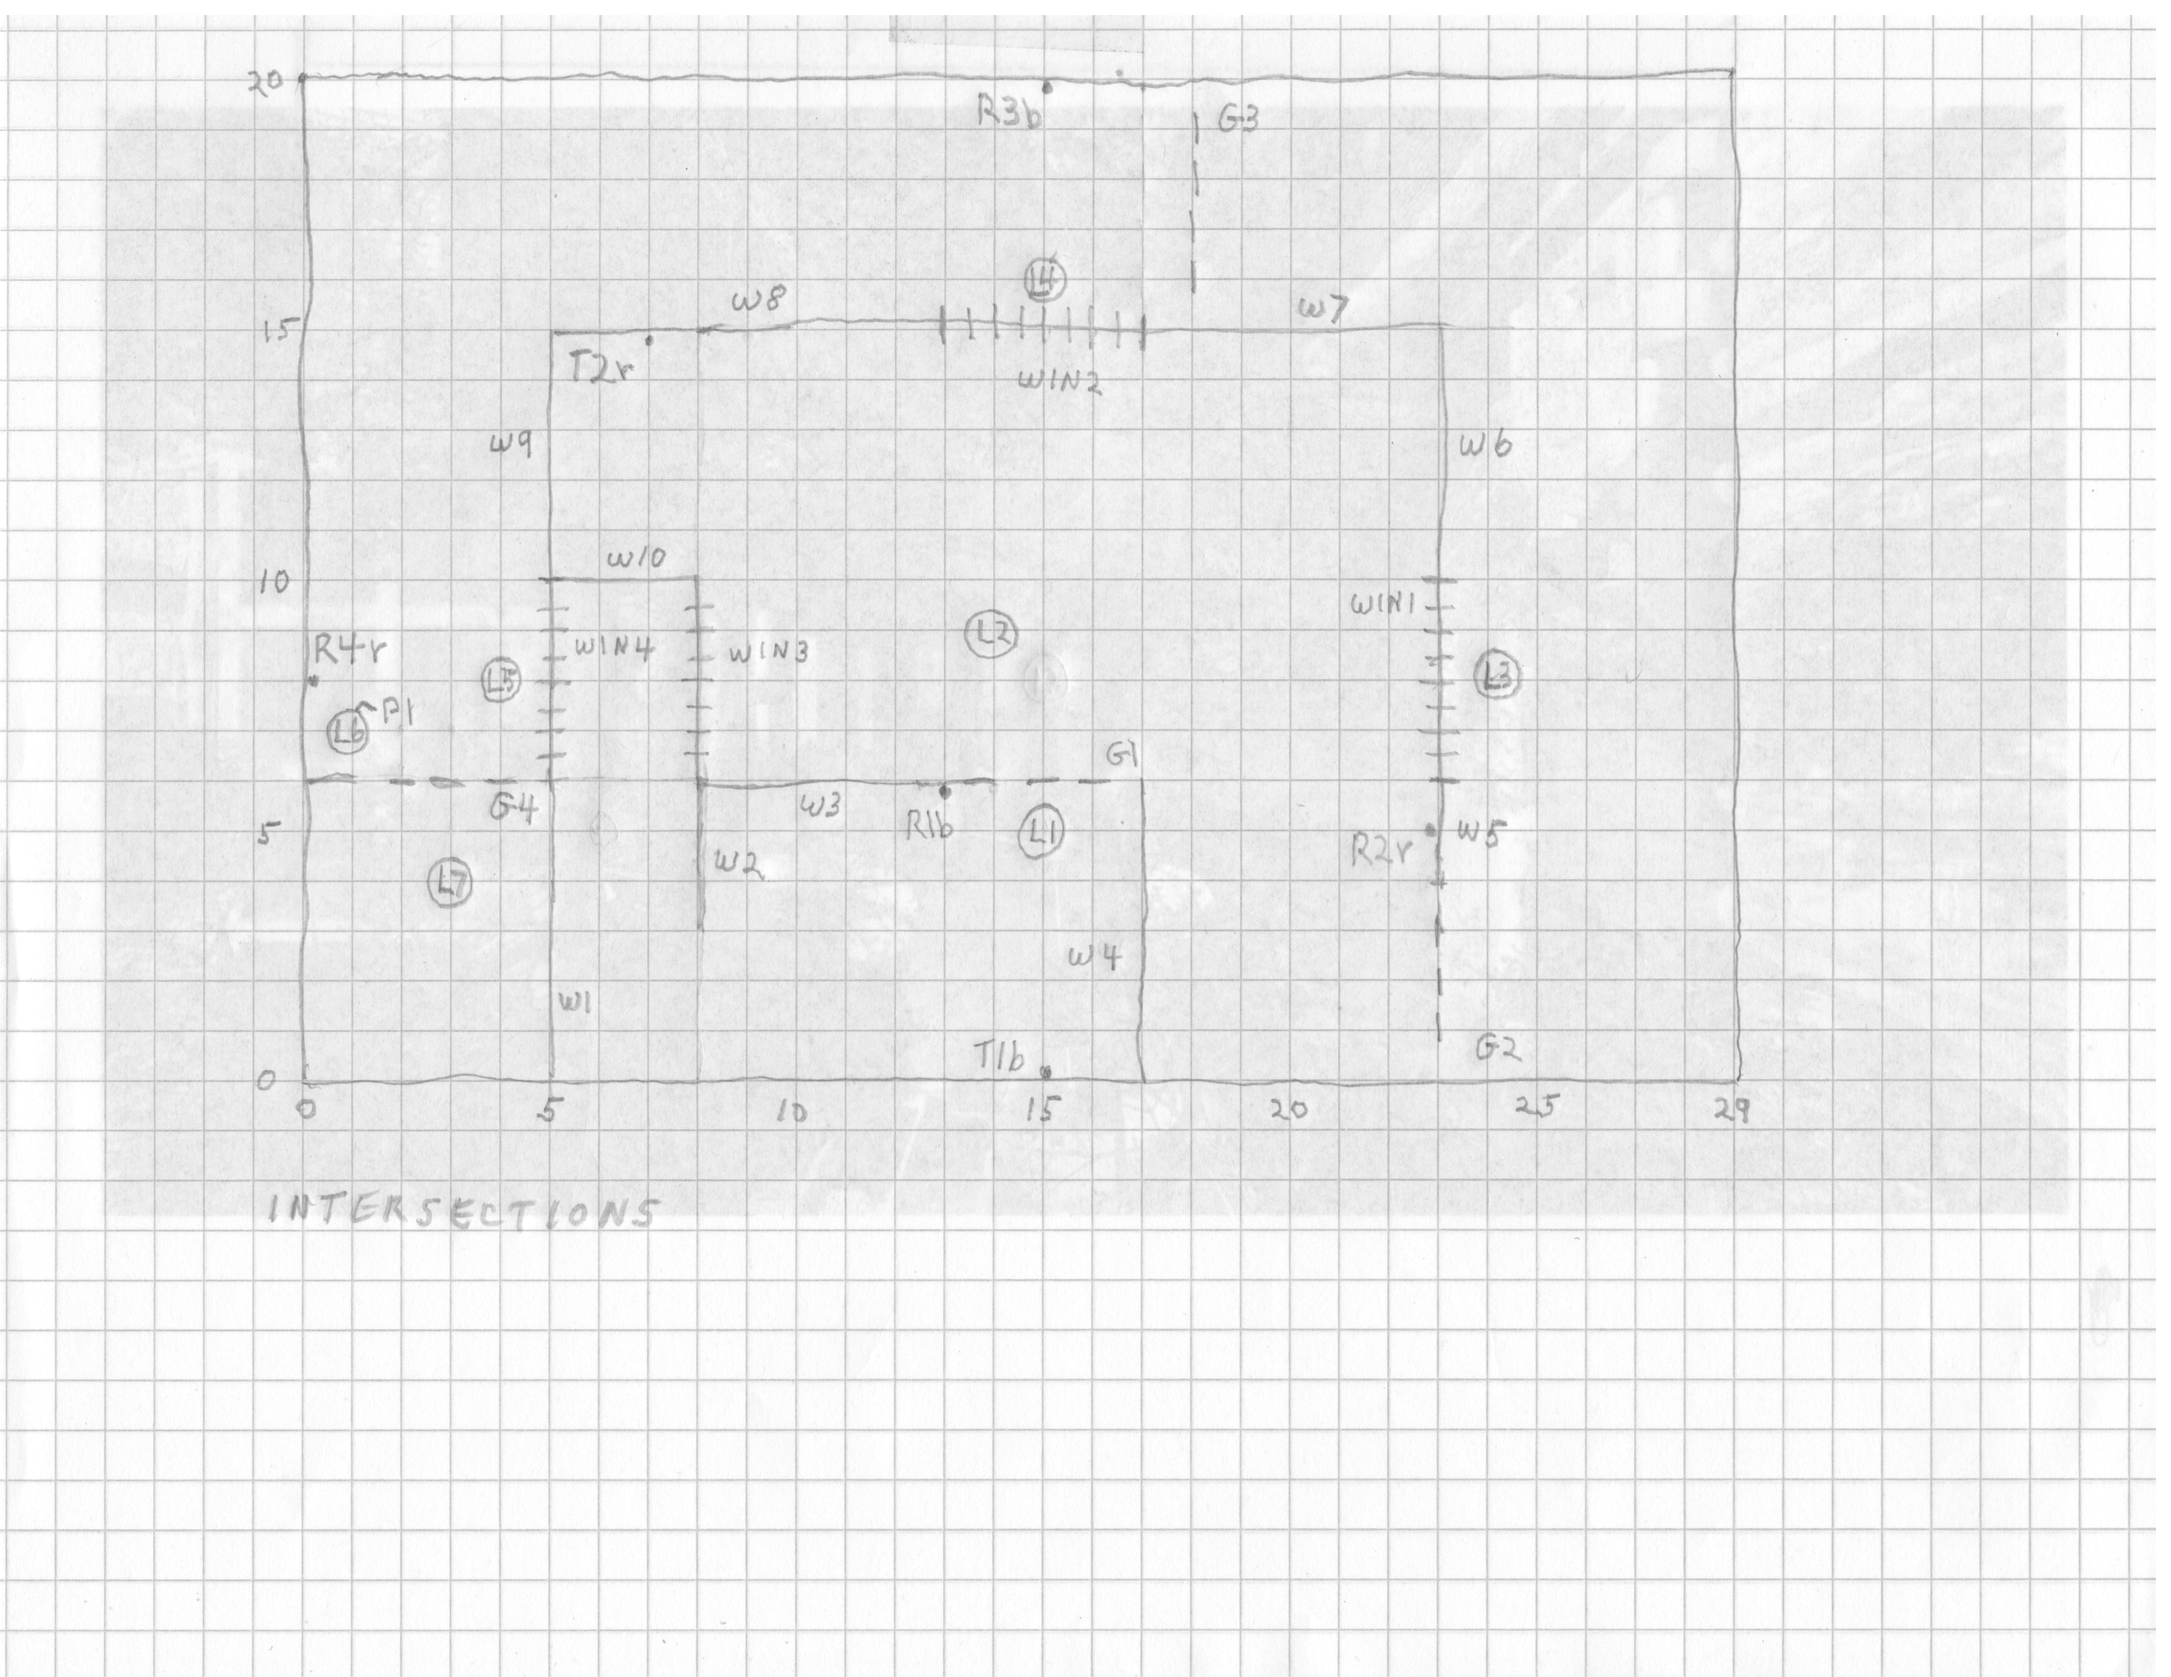
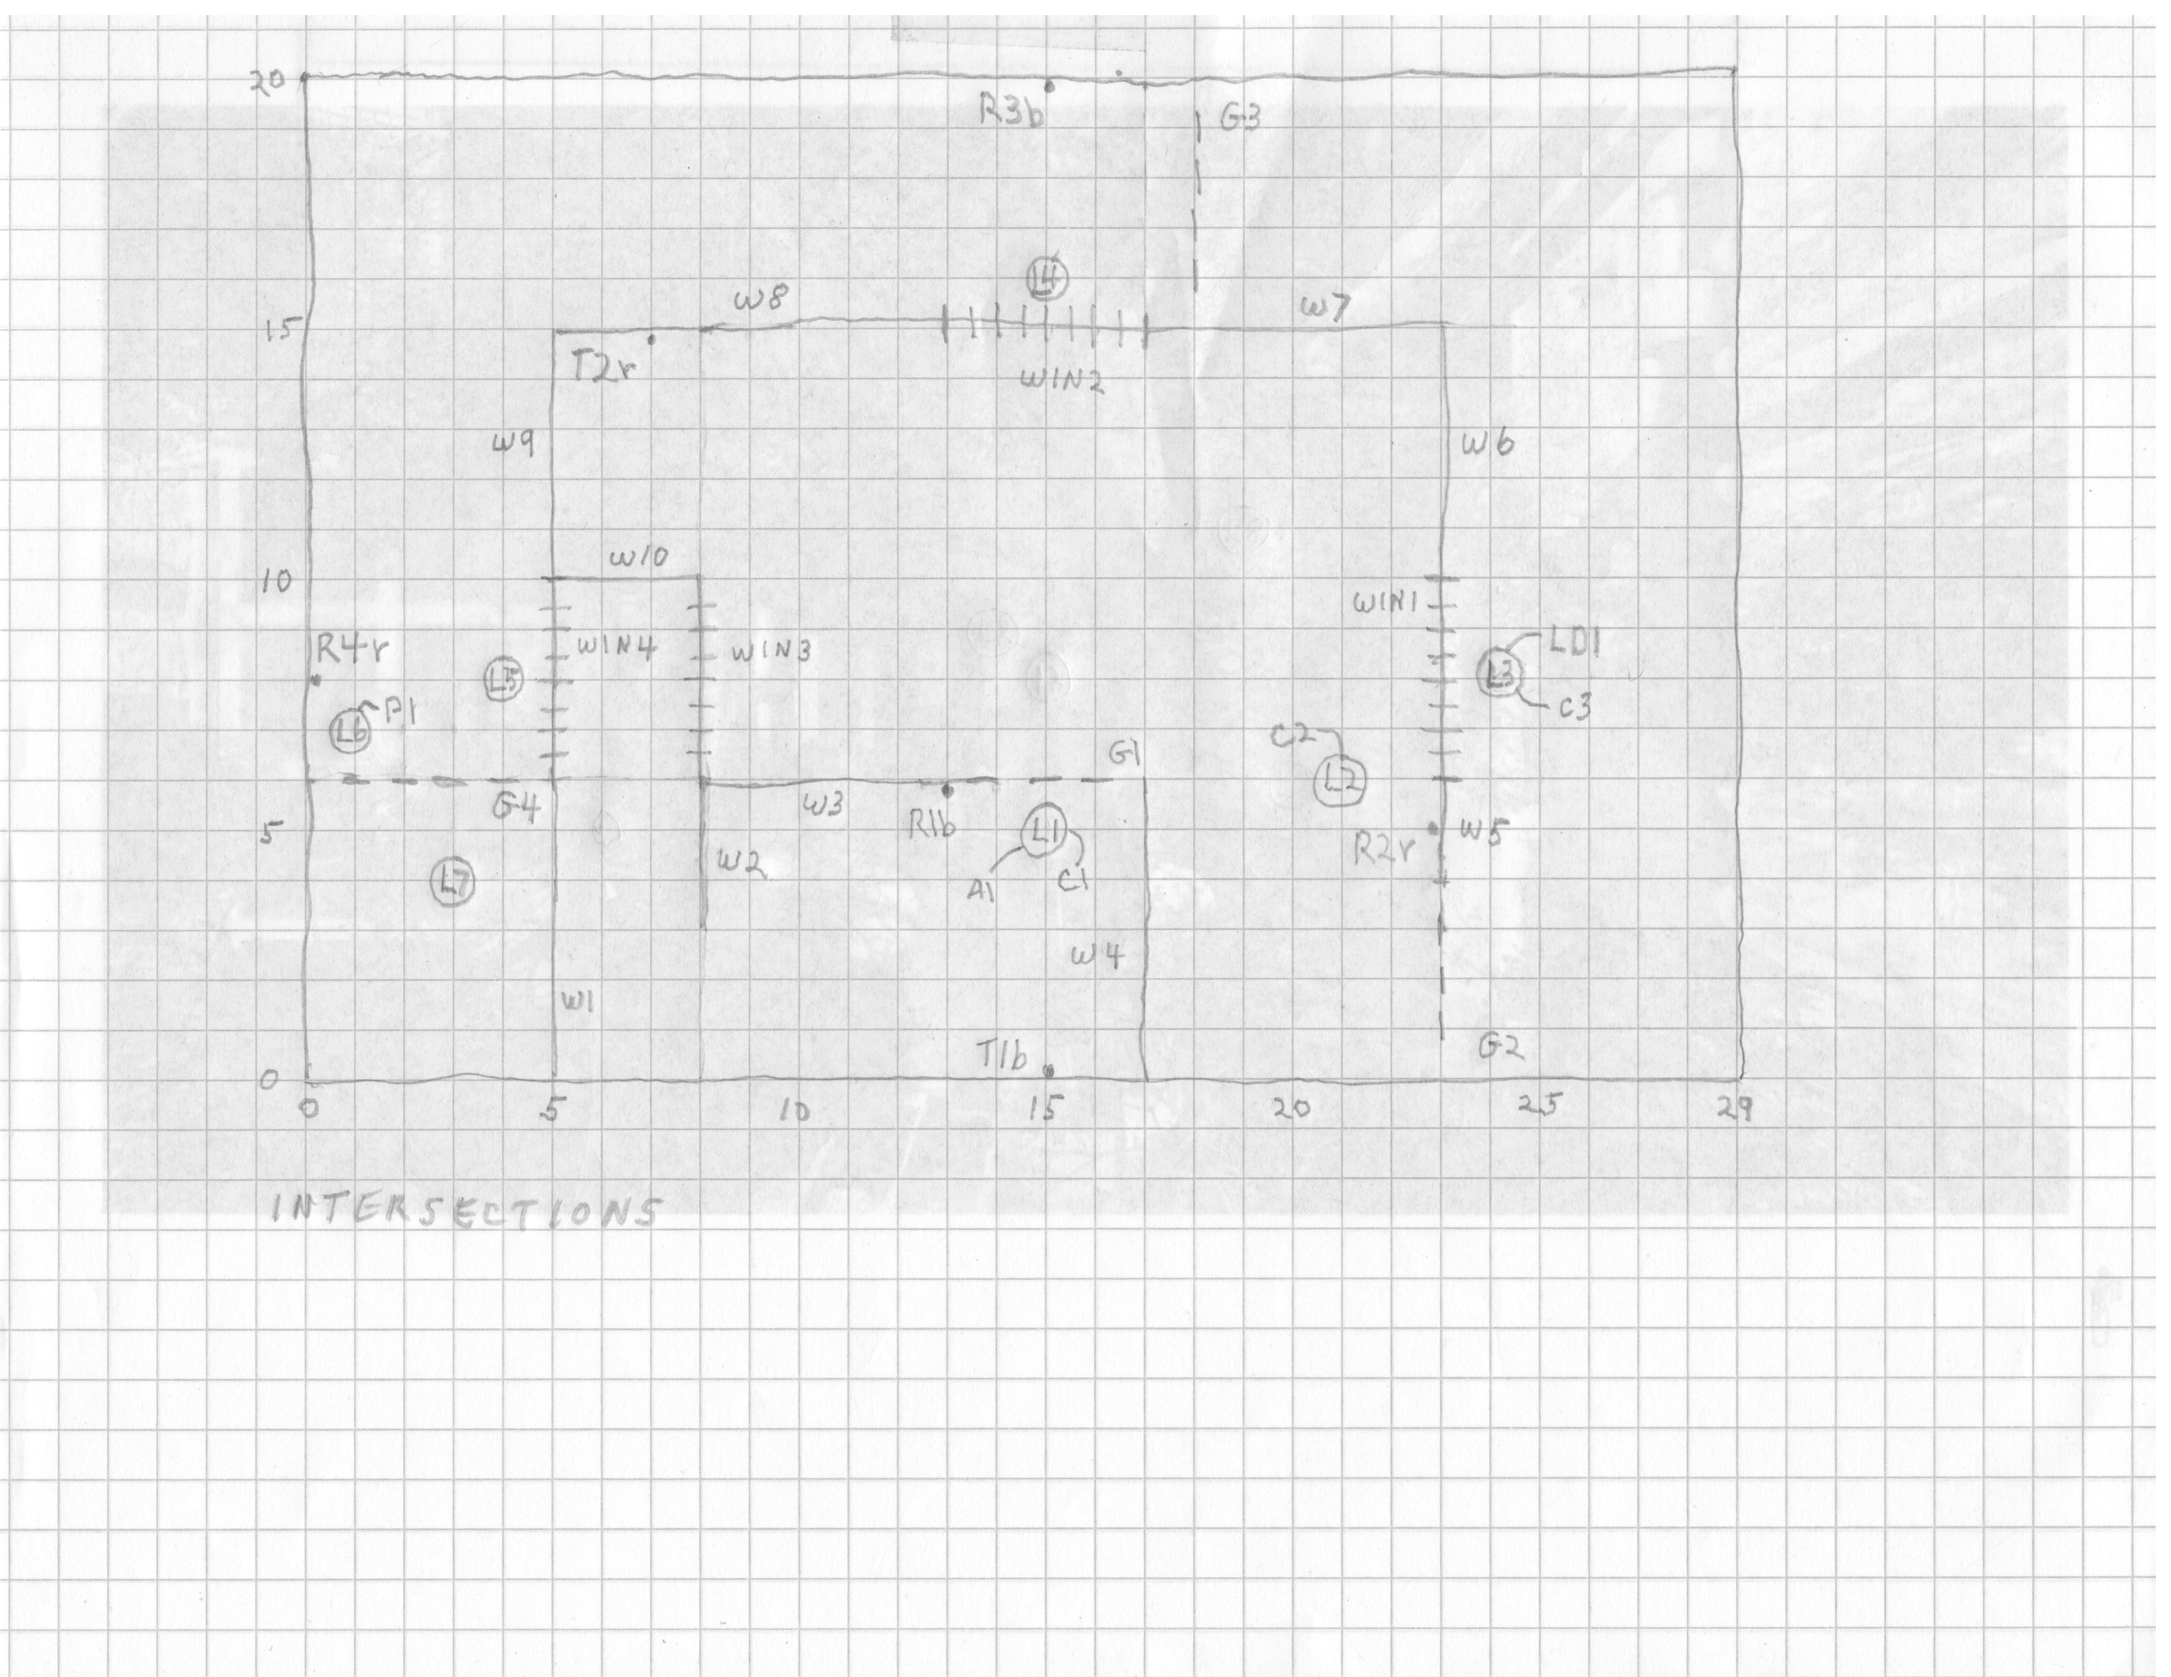
fix beam-relay-test

diff --git a/tech/README.html b/tech/README.html
@@ -228,7 +228,7 @@ nav.toc a:hover{text-decoration:underline;}
 <tr><td><code>gun.lisp</code></td><td><code>update-gun-status!</code> (sole asserter of <code>-threat</code>'s <code>lethal</code> for gun instances; lethal &lt;=&gt; (uncontrolled OR control-on) AND NOT jammed, mirroring <code>-gears-fan</code>'s <code>turning</code> derivation)</td><td><code>-threat</code>, <code>-controls</code></td><td>&mdash;</td><td><span class="tag assembly">assembly</span> (no actions and zero physical height; positioned by its <code>apparatus-coords&gt;</code> functional point like a transmitter/receiver, not <code>has-position</code> -- nothing can occupy that point; a jammer targets it through <code>visible</code> over its <code>los-via</code> sightline)</td></tr>
 <tr><td><code>ladder.lisp</code></td><td><code>ladder</code> (optional), the source-position and means-membership queries, and the <code>climbing</code> mode registration &mdash; authored as <code>traverse-via&gt;</code>, since a ladder that carries an agent up need not carry it down. A climbing clause reads in two registers at once: its ladders are candidates, one of which must stand at the source, while every member including those ladders must also clear. Grounded climbs remain transparent mobility; a supported agent instead receives one explicit configuration transition from its current support to destination ground, so leaving the support cannot compose with farther travel in the same <code>move</code>. <code>ladder-init-check</code> rejects symmetric climbs and any alternative clause that has no listed ladder fixed at its source, because either edge would be permanently unusable</td><td><code>-position</code>, <code>-passability</code>, <code>-threat</code>, <code>-traversal</code>, <code>-mobility-action</code></td><td><code>ladder-init-check</code>; <code>move</code> (central mobility action)</td><td><span class="tag service">service</span> (directed ladder mobility plus supported-source transition)</td></tr>
 <tr><td><code>beam-direct.lisp</code></td><td>Fixed coupled-corridor clearance, initialization-time wall/edge/gate/boundary crossing records, runtime endpoint-height clearance, direct transmitter&rarr;receiver arrival, single-view recording-shadow receiver arrival, and crossing-liveness hooks</td><td><code>-beam-substrate</code>, <code>visibility</code></td><td><code>derive-fixed-beam-barrier-crossings</code> (init)</td><td><span class="tag peer">peer-plugin</span></td></tr>
-<tr><td><code>beam-relay.lisp</code></td><td><code>relay</code>/<code>terminus</code> composites, connector-first <code>paired</code>, derived <code>color</code>, unified <code>update-relay-status!</code>, actor-aware relay visibility/clearance, recording-shadow receiver arrival from shared precomputed lighting, relay/crossing hooks, and the default <code>*max-connector-pairings*</code> value of 3 when the problem supplies no override</td><td><code>-beam-substrate</code>, <code>-placement</code>, <code>-visibility</code>, <code>-vertical</code>, <code>-mobility</code>, <code>-reachability</code>, <code>-pickup</code>, <code>-beam-relay-init-checks</code>, <code>-recorder-fork-registry</code></td><td><code>pickup-connector</code>, <code>put-connector</code>, <code>connect-connector</code></td><td><span class="tag peer">peer-plugin</span> (connector actions plus connector/repeater propagation)</td></tr>
+<tr><td><code>beam-relay.lisp</code></td><td><code>relay</code>/<code>terminus</code> composites, connector-first <code>paired</code>, derived <code>color</code>, unified <code>update-relay-status!</code>, actor-aware relay visibility/clearance, recording-shadow receiver arrival from shared precomputed lighting, relay/crossing hooks, and the default <code>*max-connector-pairings*</code> value of 3 (links per connector at any time, either direction, retained links included) when the problem supplies no override</td><td><code>-beam-substrate</code>, <code>-placement</code>, <code>-visibility</code>, <code>-vertical</code>, <code>-mobility</code>, <code>-reachability</code>, <code>-pickup</code>, <code>-beam-relay-init-checks</code>, <code>-recorder-fork-registry</code></td><td><code>pickup-connector</code>, <code>put-connector</code>, <code>connect-connector</code></td><td><span class="tag peer">peer-plugin</span> (connector actions plus connector/repeater propagation)</td></tr>
 <tr><td><code>repeater.lisp</code></td><td>Public fixed-relay assembly and its floor/wall mounting contract; no location or actions</td><td><code>beam-direct</code>, <code>beam-relay</code>, <code>visibility</code></td><td>&mdash;</td><td><span class="tag assembly">assembly</span></td></tr>
 <tr><td><code>beam-crossing.lisp</code></td><td><code>transmitter</code> (optional), <code>crossing-active</code>, <code>beam-crossing&gt;</code>, <code>current-beam-crossings</code>, <code>get-current-beam-crossings</code> (the query every crossing <code>doall</code> iterates, since the <code>crossing</code> type extension stays empty), <code>update-crossing-status!</code> + hook overrides</td><td><code>-beam-substrate</code>, <code>-beam-crossing-coordinates</code>, <code>-gate</code></td><td>&mdash;</td><td><span class="tag peer">peer-plugin</span></td></tr>
 </table>
